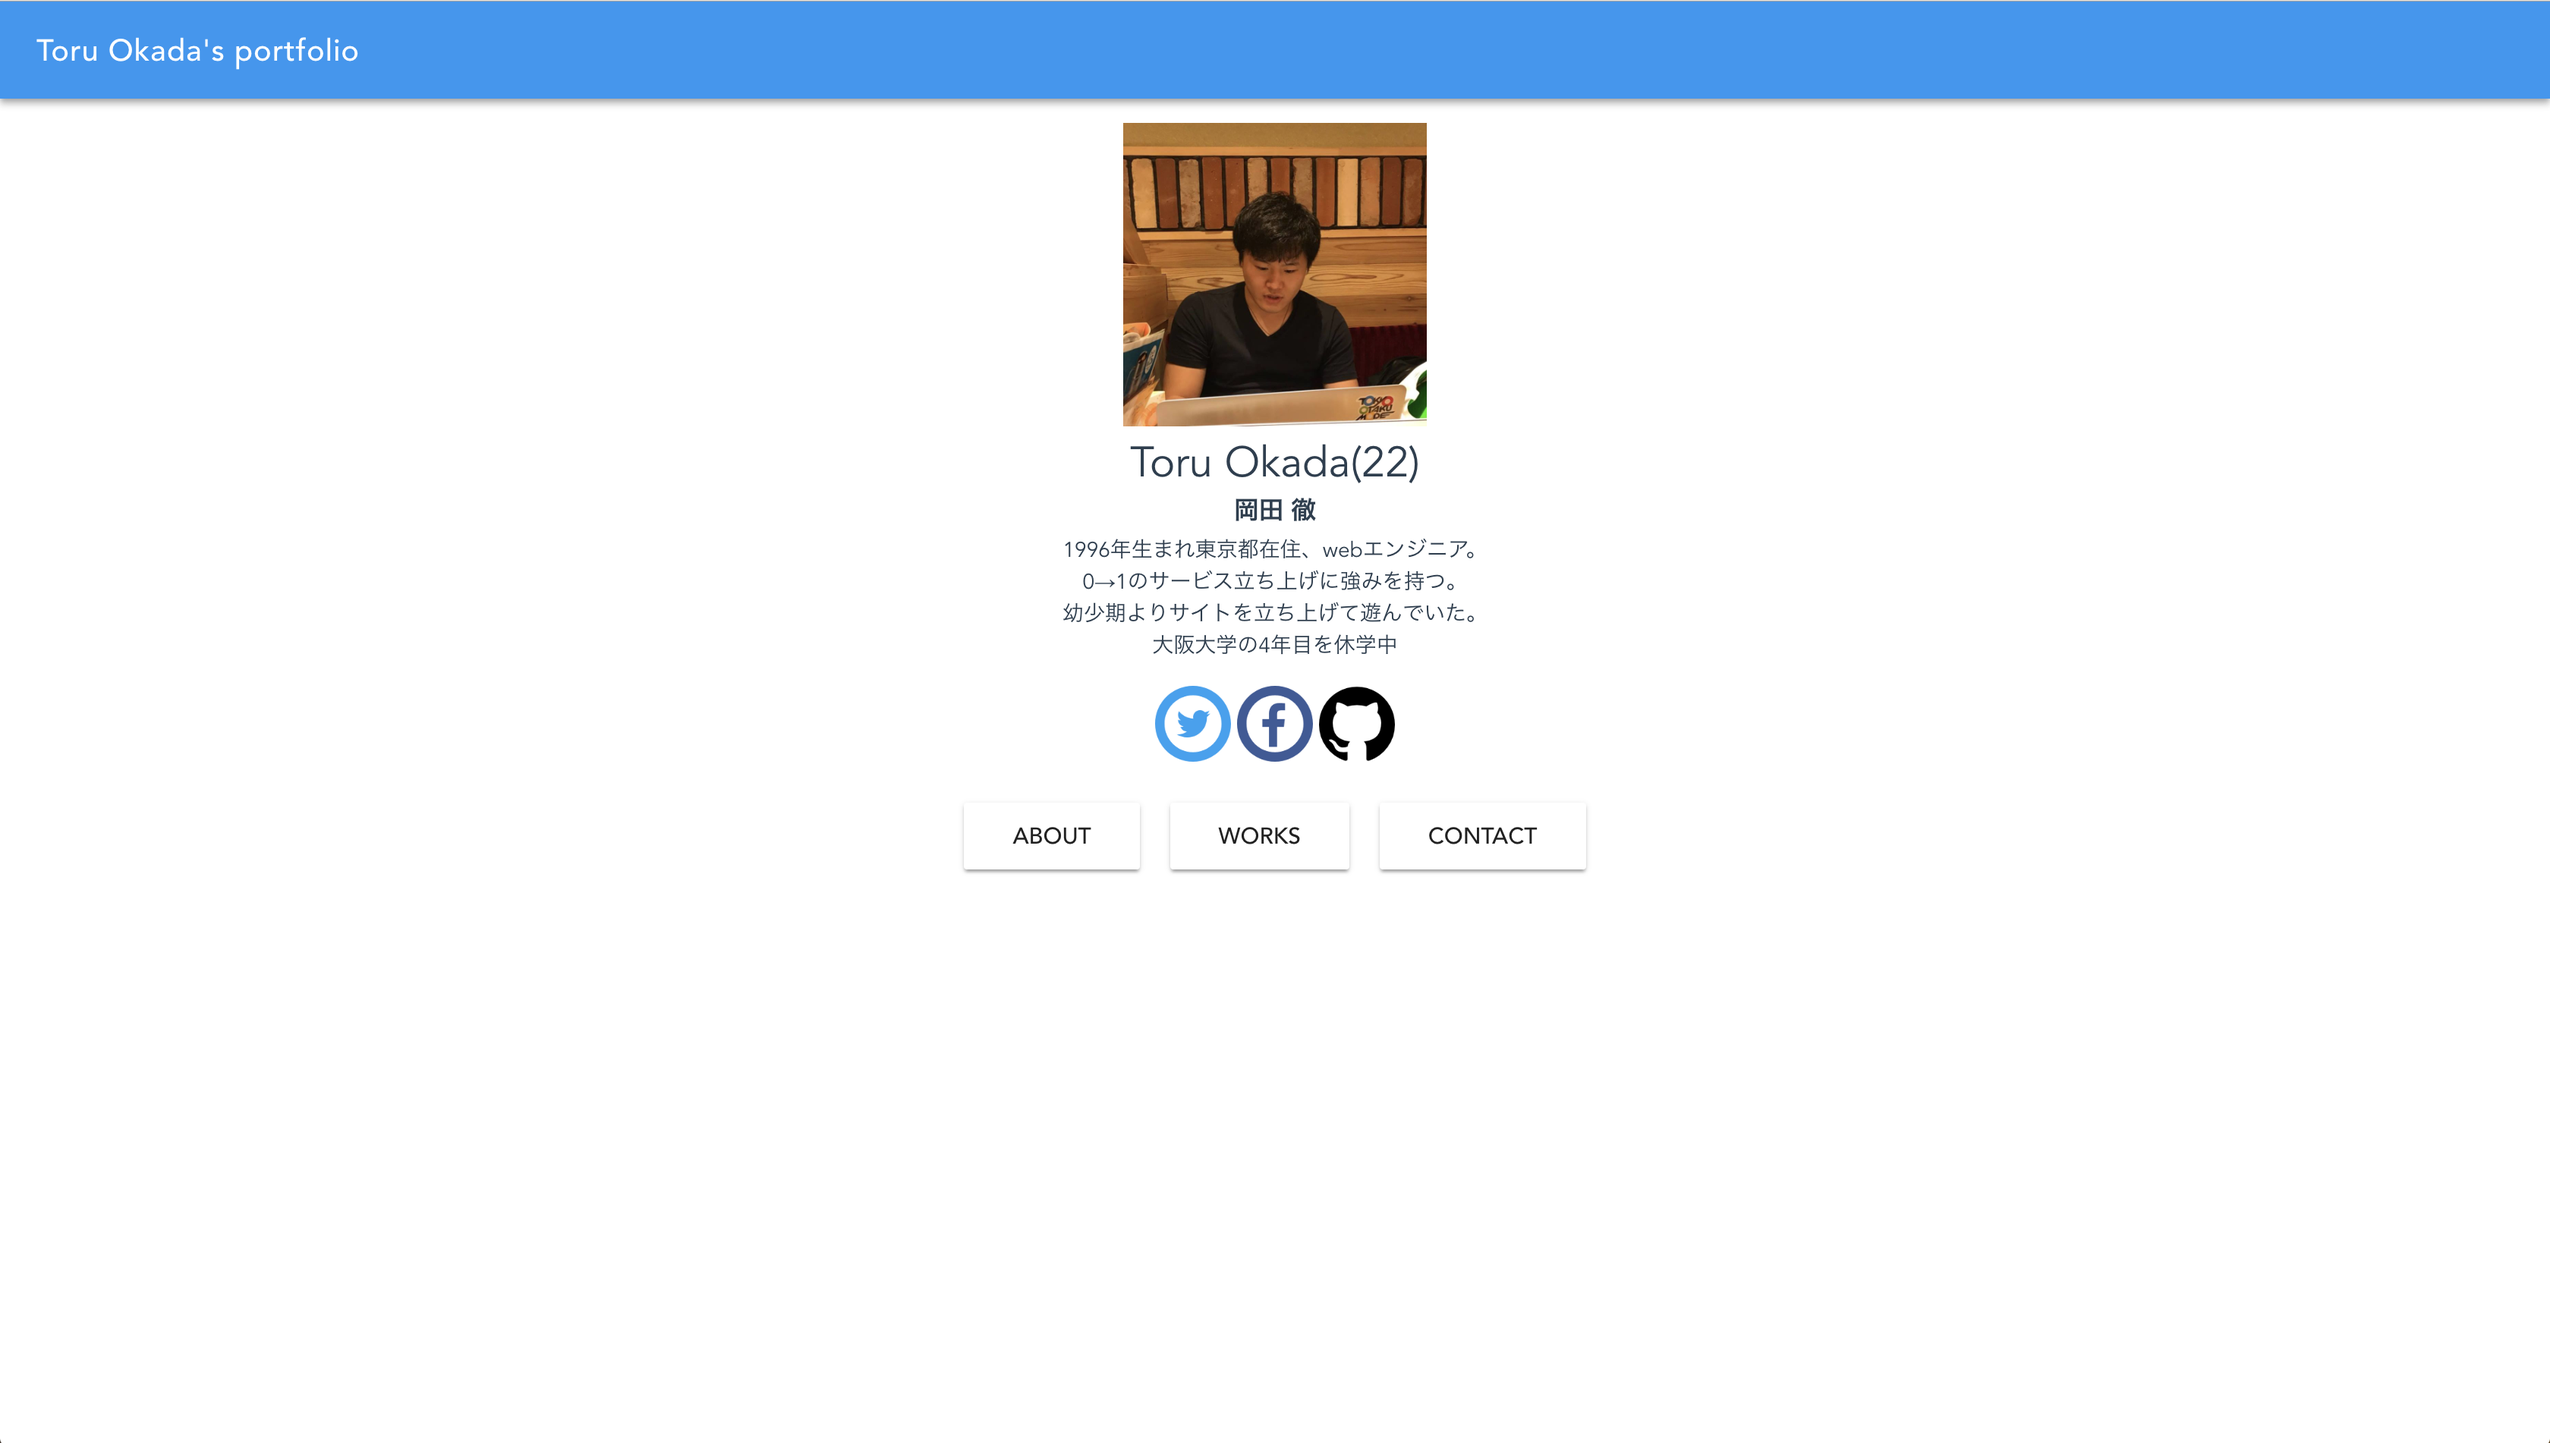
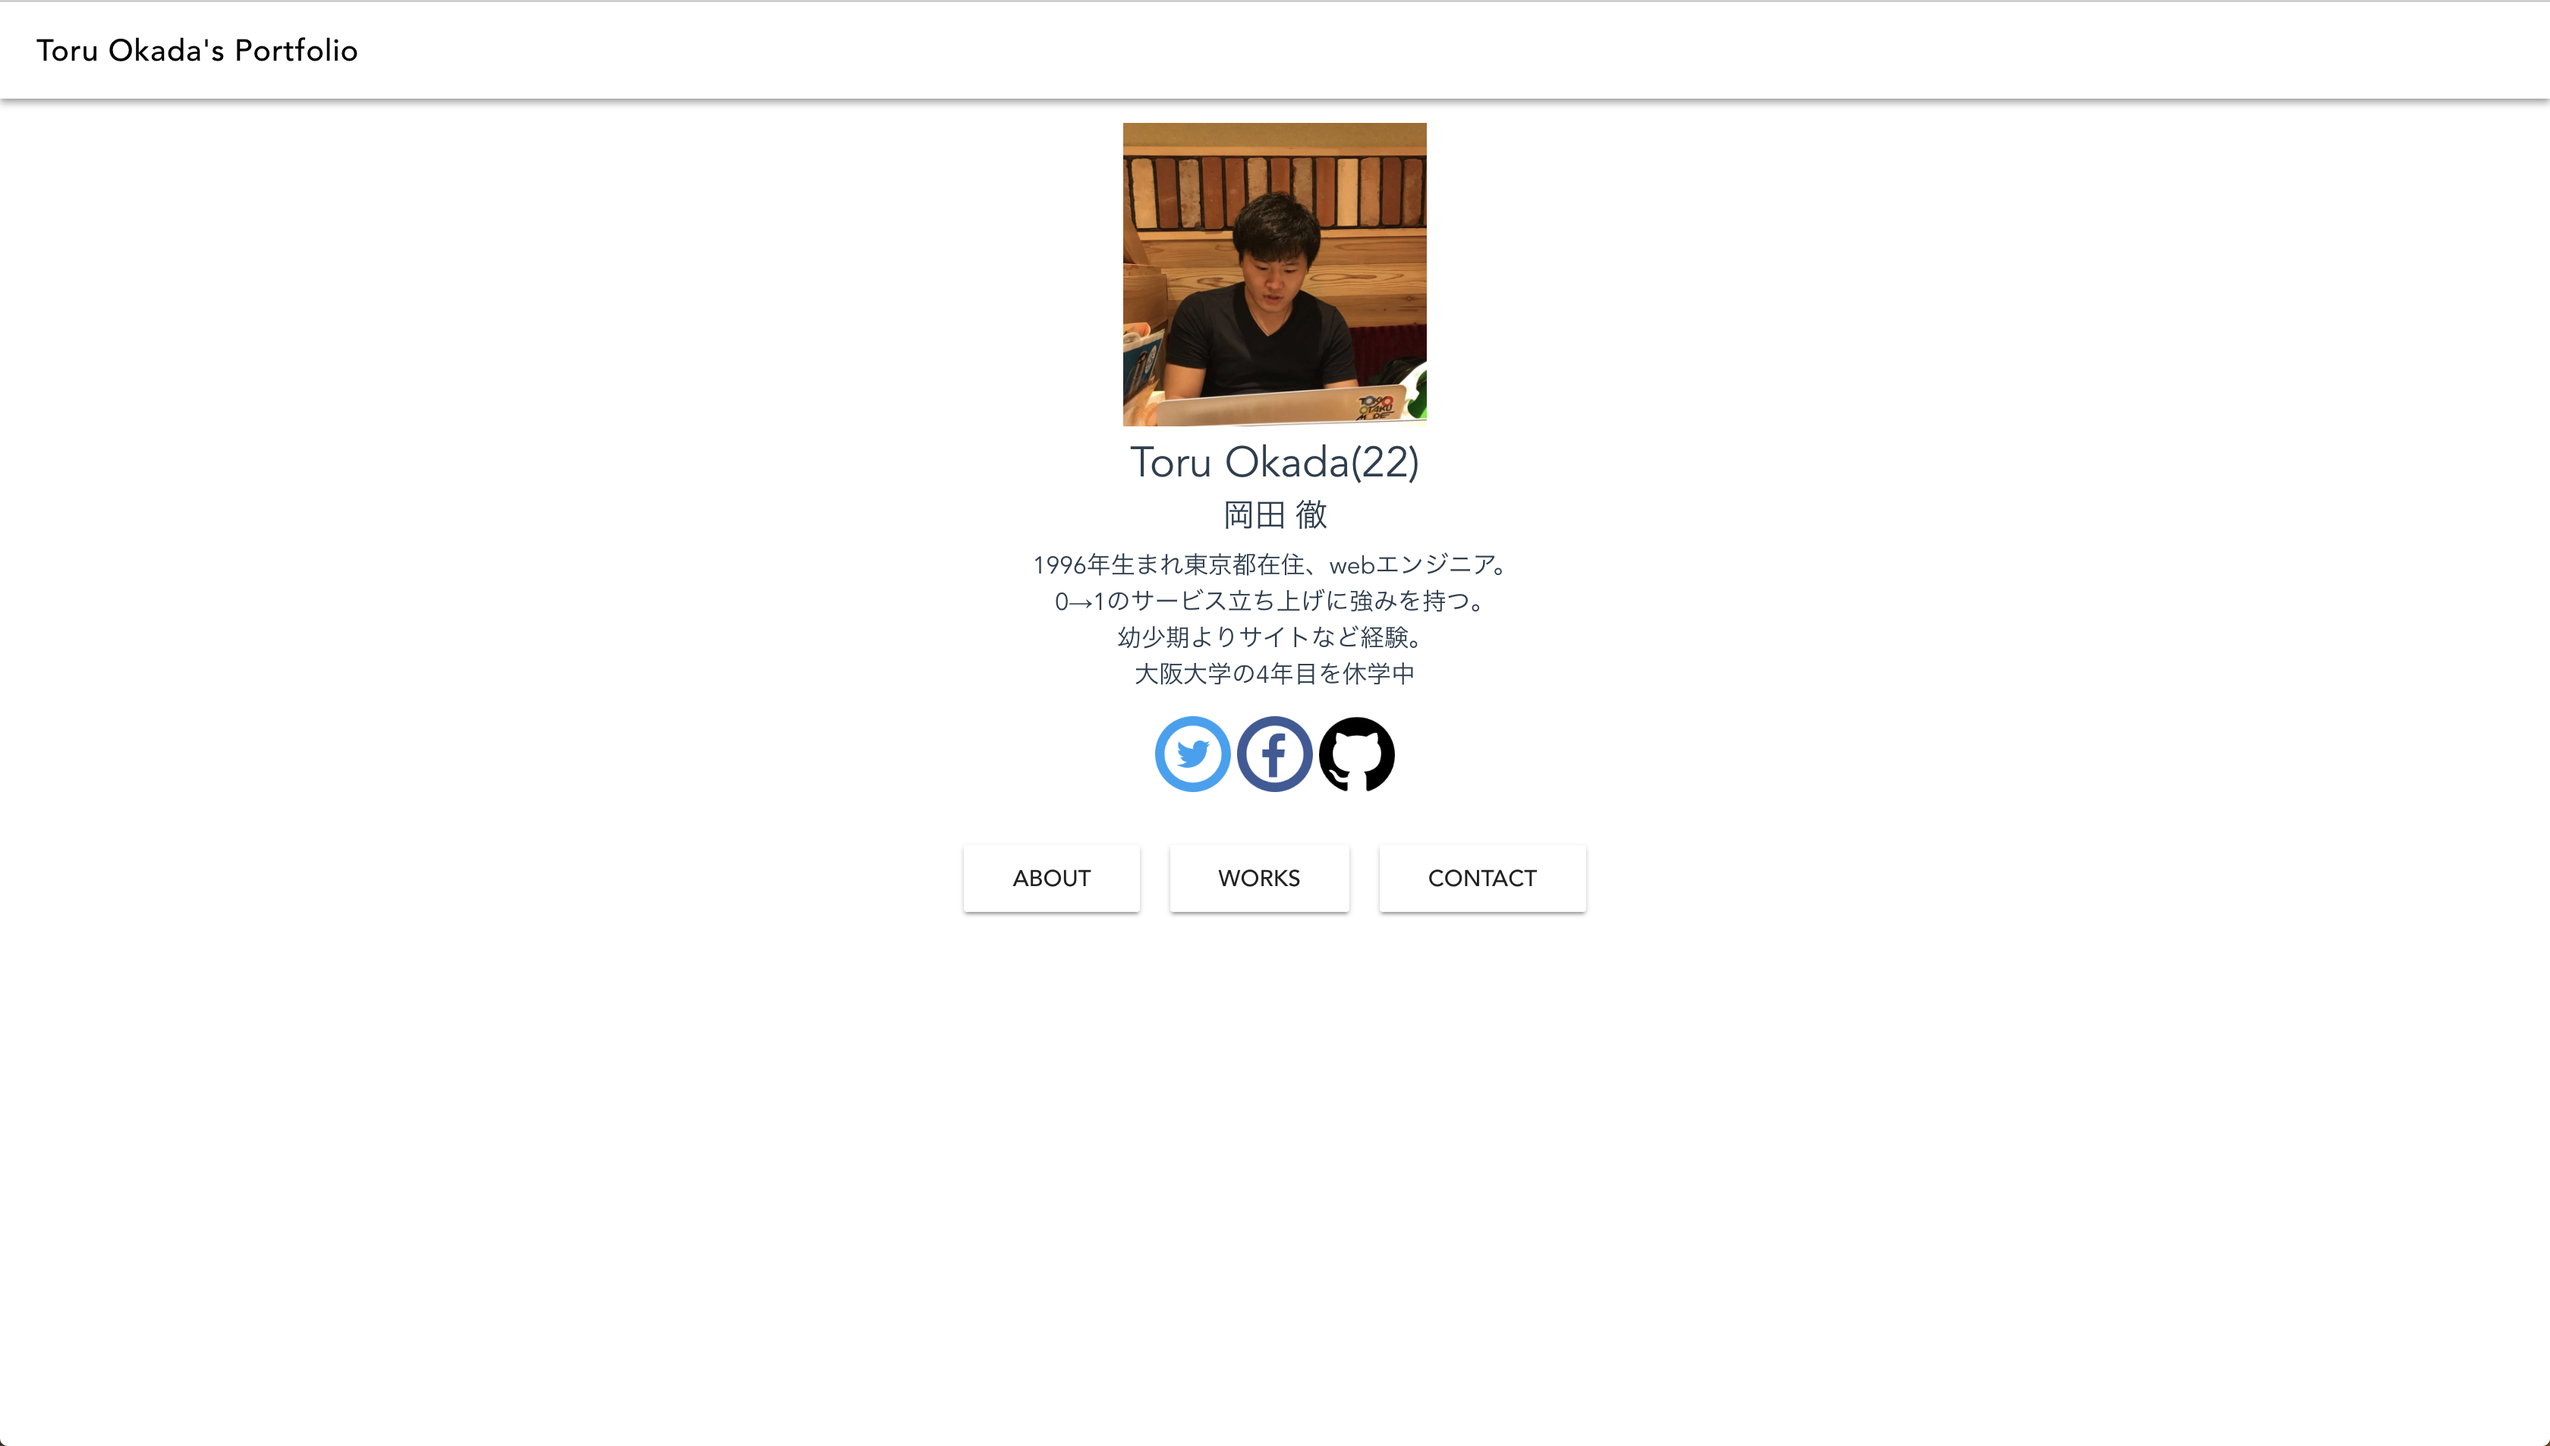
縦幅の変更

diff --git a/src/components/HelloWorld.vue b/src/components/HelloWorld.vue
@@ -1,9 +1,9 @@
 <template>
   <div class="hello">
-    <div class="mt-3">
+    <div class="mt-5">
       <img src="../assets/profile_pic.jpg" alt="profile" height="200px">
     </div>
-    <div class="mb-3">
+    <div class="mb-5 mt-3">
       <h1>Toru Okada(22)</h1>
       <h2 color="grey lighten-3">岡田 徹</h2>
       <div class="mt-1 intro-wrapper">
@@ -57,9 +57,9 @@ export default {
 
 <!-- Add "scoped" attribute to limit CSS to this component only -->
 <style scoped>
-/* .hello {
-  margin-top: 30px;
-} */
+.hello {
+  margin-bottom: 30px;
+}
 h1, h2 {
   font-weight: normal;
 }

diff --git a/src/About.vue b/src/About.vue
@@ -10,6 +10,7 @@
         <p class="text-sm-left text-md-center">Mar.2014: さいたま市立浦和高校卒業</p>
         <p class="text-sm-left text-md-center">Apr.2014: 大阪大学経済学部入学</p>
         <p class="text-sm-left text-md-center">Aug.2016: Web制作を開始</p>
+        <p class="text-sm-left text-md-center">Sep.2017: 大規模ビジネスコンテストにて優勝</p>
         <p class="text-sm-left text-md-center">Mar.2018: Bullzにて、自社サービス開発</p>
       </v-container>
     </div>
